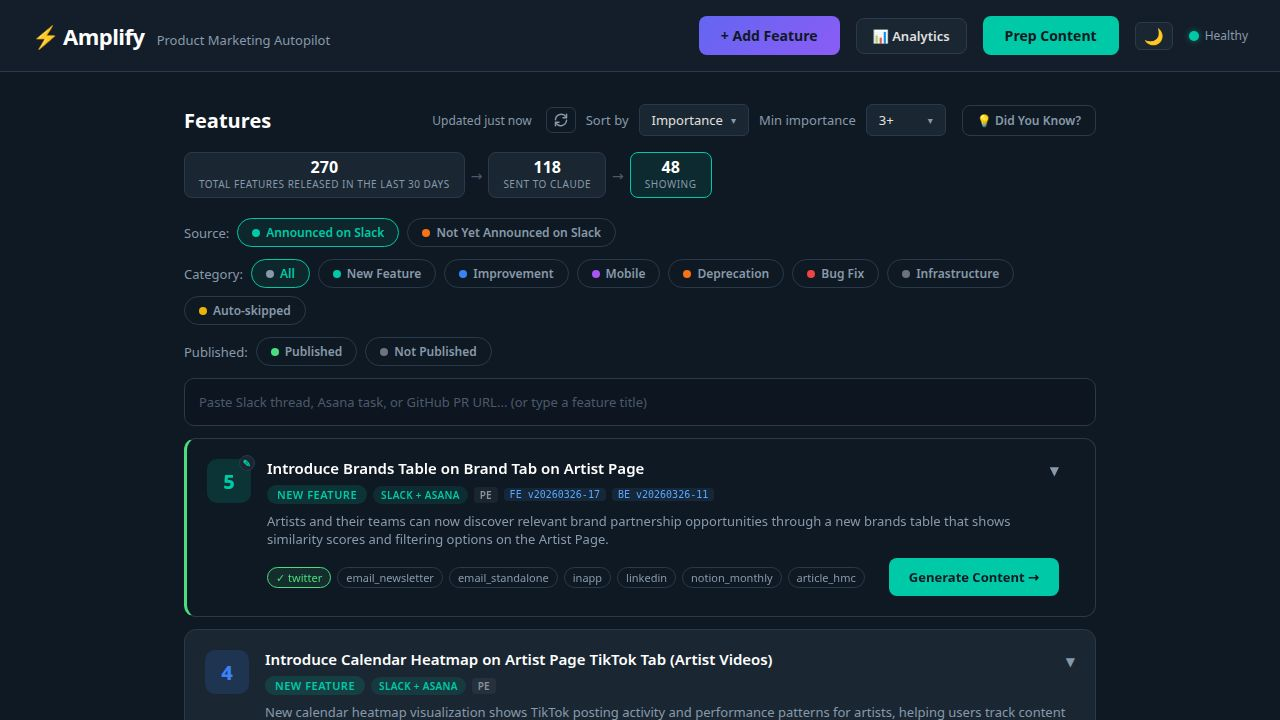
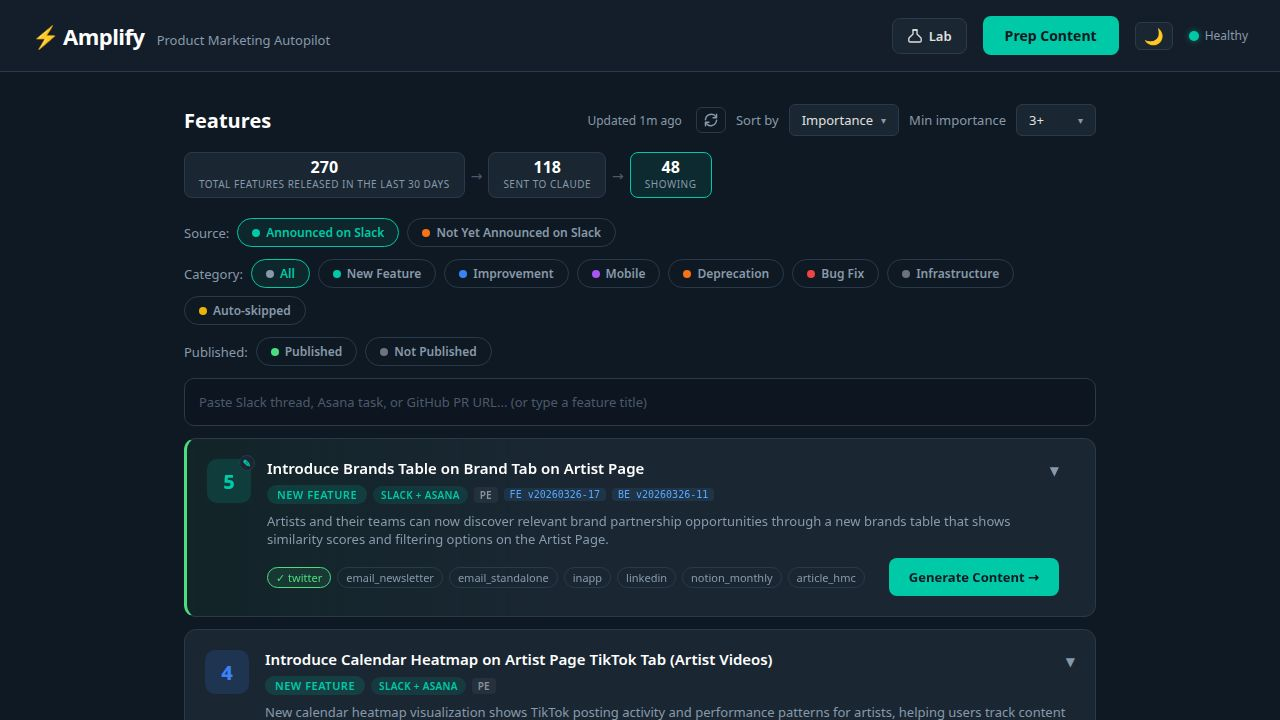
Add a Lab button with a dropdown menu for analytics and tips
Introduce a new "Lab" button with a dropdown menu in the UI, containing options for Analytics and "Did You Know?", replacing separate buttons.

Replit-Commit-Author: Agent
Replit-Commit-Session-Id: c785f156-7e86-40b1-ad8c-6d90673b4875
Replit-Commit-Checkpoint-Type: full_checkpoint
Replit-Commit-Event-Id: 96d901ca-09be-470c-a99c-aa07b2e9dfe1
Replit-Commit-Screenshot-Url: https://storage.googleapis.com/screenshot-production-us-central1/1ac0c086-213f-495a-8e2b-7d96511af9ea/c785f156-7e86-40b1-ad8c-6d90673b4875/yDJJIbV
Replit-Helium-Checkpoint-Created: true

Changed region(s): [[0.3438, 0.1528, 0.8438, 0.1833], [0.5312, 0.0, 0.75, 0.0917]]

diff --git a/artifacts/amplify/templates/dashboard.html b/artifacts/amplify/templates/dashboard.html
@@ -829,10 +829,43 @@
             background: var(--bg-card); color: var(--text-body); border: 1px solid var(--border);
             padding: 8px 16px; border-radius: 8px; font-size: 13px; font-weight: 600;
             cursor: pointer; font-family: inherit; white-space: nowrap; flex-shrink: 0;
-            transition: background 0.2s, border-color 0.2s;
+            transition: background 0.2s, border-color 0.2s; display: none;
         }
         .btn-analytics:hover { border-color: var(--accent); background: var(--accent-bg); color: var(--accent); }
         .btn-analytics.active { border-color: var(--accent); background: var(--accent-bg-strong); color: var(--accent); }
+        .lab-wrapper { position: relative; display: inline-block; }
+        .btn-lab {
+            background: var(--bg-card); color: var(--text-body); border: 1px solid var(--border);
+            padding: 8px 14px; border-radius: 8px; font-size: 15px; cursor: pointer;
+            font-family: inherit; white-space: nowrap; flex-shrink: 0;
+            transition: background 0.2s, border-color 0.2s; display: inline-flex;
+            align-items: center; gap: 6px;
+        }
+        .btn-lab:hover { border-color: var(--accent); background: var(--accent-bg); color: var(--accent); }
+        .btn-lab.active { border-color: var(--accent); background: var(--accent-bg); color: var(--accent); }
+        .lab-dropdown {
+            display: none; position: absolute; top: calc(100% + 6px); right: 0;
+            background: var(--bg-card); border: 1px solid var(--border); border-radius: 10px;
+            box-shadow: 0 8px 24px var(--shadow-strong); min-width: 200px; z-index: 300;
+            overflow: hidden; animation: fadeIn 0.12s ease;
+        }
+        .lab-dropdown.open { display: block; }
+        .lab-dropdown-item {
+            display: flex; align-items: center; gap: 10px; padding: 12px 16px;
+            font-size: 13px; font-weight: 600; color: var(--text-body); cursor: pointer;
+            transition: background 0.15s; border: none; background: none; width: 100%;
+            text-align: left; font-family: inherit;
+        }
+        .lab-dropdown-item:hover { background: var(--hover-bg); }
+        .lab-dropdown-item .lab-item-icon { font-size: 16px; width: 22px; text-align: center; }
+        .lab-dropdown-item .lab-item-label { flex: 1; }
+        .lab-dropdown-item .lab-item-status {
+            font-size: 11px; font-weight: 500; padding: 2px 8px; border-radius: 10px;
+        }
+        .lab-dropdown-item .lab-item-status.on {
+            background: rgba(0,201,167,0.15); color: var(--accent);
+        }
+        .lab-dropdown-divider { height: 1px; background: var(--border); margin: 0; }
         .analytics-overlay {
             position: fixed; top: 0; left: 0; right: 0; bottom: 0; z-index: 500;
             background: var(--bg-overlay); overflow-y: auto; transition: background-color 0.2s;
@@ -1119,6 +1152,25 @@
             <span class="subtitle">Product Marketing Autopilot</span>
         </div>
         <div class="topbar-right">
+            <div class="lab-wrapper">
+                <button class="btn-lab" id="btn-lab" onclick="toggleLabDropdown()">
+                    <svg width="16" height="16" viewBox="0 0 24 24" fill="none" stroke="currentColor" stroke-width="2" stroke-linecap="round" stroke-linejoin="round"><path d="M9 3h6v5.586a1 1 0 0 0 .293.707l5.414 5.414a2 2 0 0 1 .586 1.414V19a2 2 0 0 1-2 2H4.707a2 2 0 0 1-2-2v-2.879a2 2 0 0 1 .586-1.414l5.414-5.414A1 1 0 0 0 9 8.586V3z"/><line x1="9" y1="3" x2="15" y2="3"/></svg>
+                    <span style="font-size:13px;font-weight:600;">Lab</span>
+                </button>
+                <div class="lab-dropdown" id="lab-dropdown">
+                    <button class="lab-dropdown-item" onclick="labToggleAnalytics()">
+                        <span class="lab-item-icon">&#128202;</span>
+                        <span class="lab-item-label">Analytics</span>
+                        <span class="lab-item-status" id="lab-analytics-status"></span>
+                    </button>
+                    <div class="lab-dropdown-divider"></div>
+                    <button class="lab-dropdown-item" onclick="labToggleDyk()">
+                        <span class="lab-item-icon">&#128161;</span>
+                        <span class="lab-item-label">Did You Know?</span>
+                        <span class="lab-item-status" id="lab-dyk-status"></span>
+                    </button>
+                </div>
+            </div>
             <button class="btn-analytics" onclick="toggleAnalytics()">&#128202; Analytics</button>
             <button class="btn-prep-content" onclick="startPrepWorkflow()">Prep Content</button>
             <button class="theme-toggle" id="theme-toggle" onclick="toggleTheme()" title="Toggle light/dark mode">&#127769;</button>
@@ -1163,9 +1215,7 @@
                     </div>
                     <input type="hidden" id="importance-filter" value="3">
                 </div>
-                <button class="dyk-toggle-btn" id="dyk-toggle" onclick="toggleDidYouKnow()">
-                    &#128161; Did You Know?
-                </button>
+                <span id="dyk-toggle" style="display:none;"></span>
             </div>
         </div>
 
@@ -5964,17 +6014,67 @@ function submitPasteBar() {
     });
 }
 
+function toggleLabDropdown() {
+    var dd = document.getElementById('lab-dropdown');
+    var btn = document.getElementById('btn-lab');
+    var isOpen = dd.classList.contains('open');
+    if (isOpen) {
+        dd.classList.remove('open');
+        btn.classList.remove('active');
+    } else {
+        updateLabStatuses();
+        dd.classList.add('open');
+        btn.classList.add('active');
+    }
+}
+
+function closeLabDropdown() {
+    var dd = document.getElementById('lab-dropdown');
+    var btn = document.getElementById('btn-lab');
+    if (dd) dd.classList.remove('open');
+    if (btn) btn.classList.remove('active');
+}
+
+document.addEventListener('click', function(e) {
+    var wrapper = document.querySelector('.lab-wrapper');
+    if (wrapper && !wrapper.contains(e.target)) {
+        closeLabDropdown();
+    }
+});
+
+function updateLabStatuses() {
+    var analyticsEl = document.getElementById('lab-analytics-status');
+    var dykEl = document.getElementById('lab-dyk-status');
+    var analyticsOverlay = document.getElementById('analytics-overlay');
+    var analyticsOn = analyticsOverlay && analyticsOverlay.style.display === 'block';
+    if (analyticsEl) {
+        analyticsEl.textContent = analyticsOn ? 'ON' : '';
+        analyticsEl.className = 'lab-item-status' + (analyticsOn ? ' on' : '');
+    }
+    if (dykEl) {
+        dykEl.textContent = dykEnabled ? 'ON' : '';
+        dykEl.className = 'lab-item-status' + (dykEnabled ? ' on' : '');
+    }
+}
+
+function labToggleAnalytics() {
+    closeLabDropdown();
+    toggleAnalytics();
+}
+
+function labToggleDyk() {
+    closeLabDropdown();
+    toggleDidYouKnow();
+}
+
 function toggleAnalytics() {
     var overlay = document.getElementById('analytics-overlay');
-    var btn = document.querySelector('.btn-analytics');
     if (overlay.style.display === 'block') {
         overlay.style.display = 'none';
         document.body.style.overflow = '';
-        if (btn) btn.classList.remove('active');
     } else {
         overlay.style.display = 'block';
         document.body.style.overflow = 'hidden';
-        if (btn) btn.classList.add('active');
         loadAnalyticsData();
     }
 }